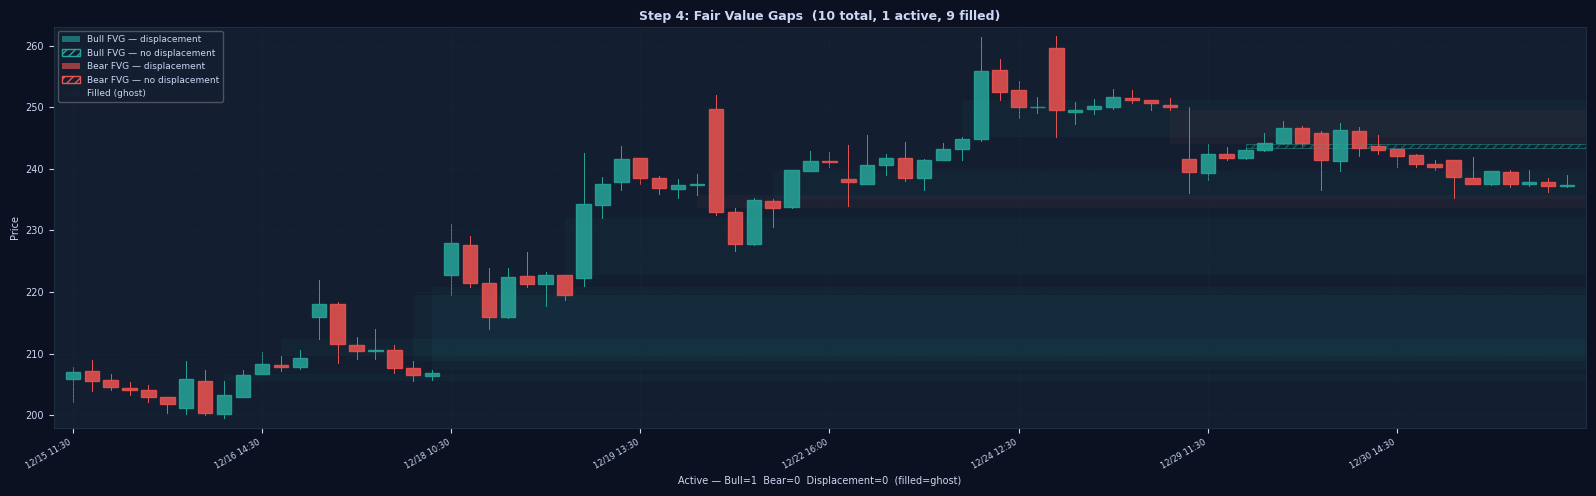
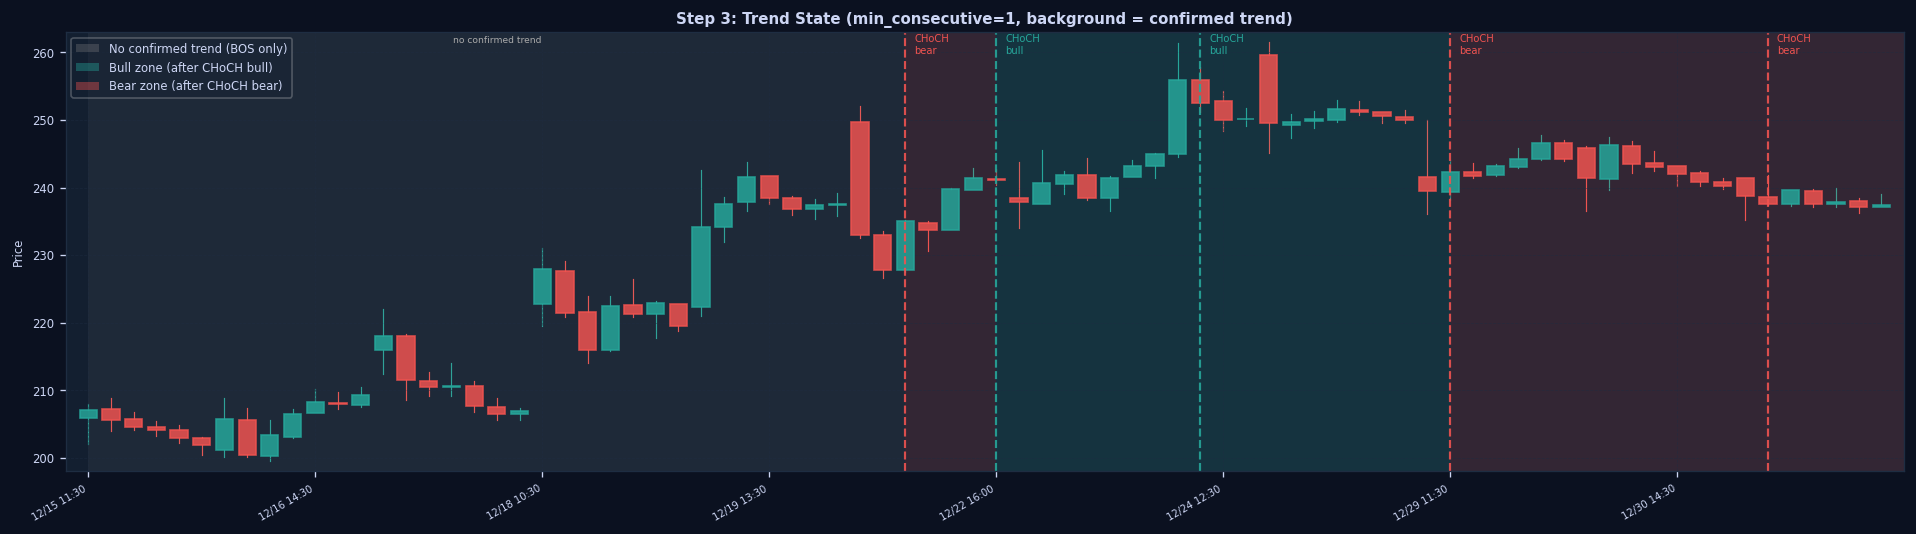
Fix: prevent duplicate BOS/CHoCH signals at same break bar
Add processed_break_bars set to detect_bos_choch so each bar can only
trigger one signal. Previously a single bar could generate two CHoCH
signals by breaking two different previous swing levels in the same
iteration pass.

Also update Step 3 notebook cell: raise zone alpha 0.08->0.15 and add
explicit gray shading for bars before the first CHoCH (no confirmed
trend), making the three zone types visually distinct.

Files: backtest/output.png, backtest/strategy_walkthrough.ipynb, strategy/smc/market_structure.py

diff --git a/strategy/smc/market_structure.py b/strategy/smc/market_structure.py
@@ -110,8 +110,9 @@ def detect_bos_choch(klines: pd.DataFrame, lookback: int = 2) -> list[dict]:
     closes = klines["close"].values
     n      = len(klines)
     signals: list[dict] = []
-    processed_highs: set[int] = set()
-    processed_lows:  set[int] = set()
+    processed_highs:      set[int] = set()
+    processed_lows:       set[int] = set()
+    processed_break_bars: set[int] = set()  # one signal per break bar
 
     for i in range(2, len(swings)):
         sw = swings[i]
@@ -125,17 +126,19 @@ def detect_bos_choch(klines: pd.DataFrame, lookback: int = 2) -> list[dict]:
                 continue
             for j in range(sw["idx"] + 1, n):
                 if closes[j] > prev_high["price"]:
-                    sig_type = "BOS" if trend == "up" else "CHoCH"
-                    signals.append({
-                        "type":      sig_type,
-                        "direction": "bull",
-                        "idx":       j,
-                        "price":     prev_high["price"],
-                        "from_idx":  prev_high["idx"],
-                    })
+                    if j not in processed_break_bars:
+                        sig_type = "BOS" if trend == "up" else "CHoCH"
+                        signals.append({
+                            "type":      sig_type,
+                            "direction": "bull",
+                            "idx":       j,
+                            "price":     prev_high["price"],
+                            "from_idx":  prev_high["idx"],
+                        })
+                        processed_break_bars.add(j)
+                        if sig_type == "CHoCH":
+                            trend = "up"
                     processed_highs.add(prev_high["idx"])
-                    if sig_type == "CHoCH":
-                        trend = "up"
                     break
 
         else:  # kind == "low"
@@ -147,17 +150,19 @@ def detect_bos_choch(klines: pd.DataFrame, lookback: int = 2) -> list[dict]:
                 continue
             for j in range(sw["idx"] + 1, n):
                 if closes[j] < prev_low["price"]:
-                    sig_type = "BOS" if trend == "down" else "CHoCH"
-                    signals.append({
-                        "type":      sig_type,
-                        "direction": "bear",
-                        "idx":       j,
-                        "price":     prev_low["price"],
-                        "from_idx":  prev_low["idx"],
-                    })
+                    if j not in processed_break_bars:
+                        sig_type = "BOS" if trend == "down" else "CHoCH"
+                        signals.append({
+                            "type":      sig_type,
+                            "direction": "bear",
+                            "idx":       j,
+                            "price":     prev_low["price"],
+                            "from_idx":  prev_low["idx"],
+                        })
+                        processed_break_bars.add(j)
+                        if sig_type == "CHoCH":
+                            trend = "down"
                     processed_lows.add(prev_low["idx"])
-                    if sig_type == "CHoCH":
-                        trend = "down"
                     break
 
     return signals
